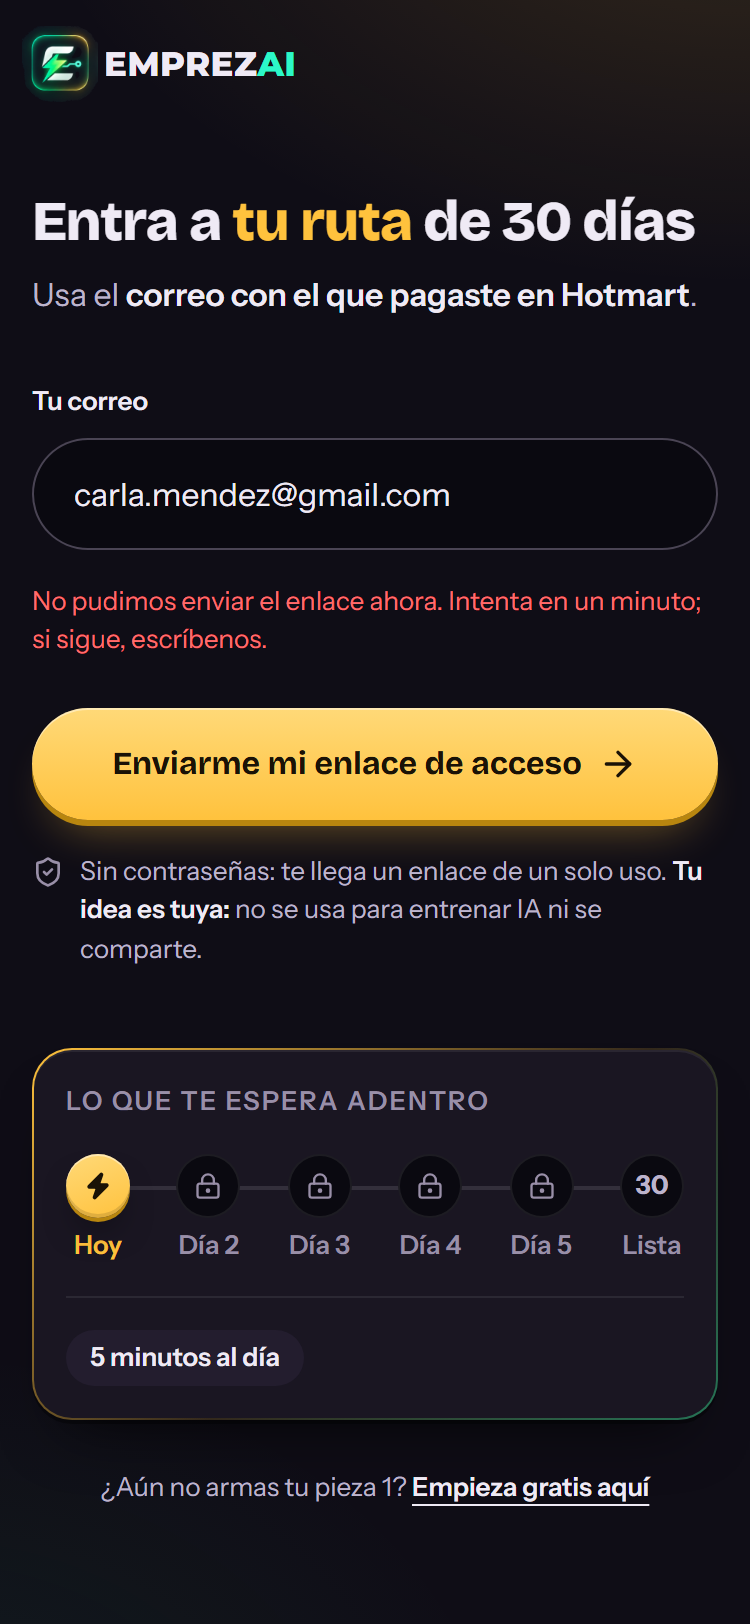
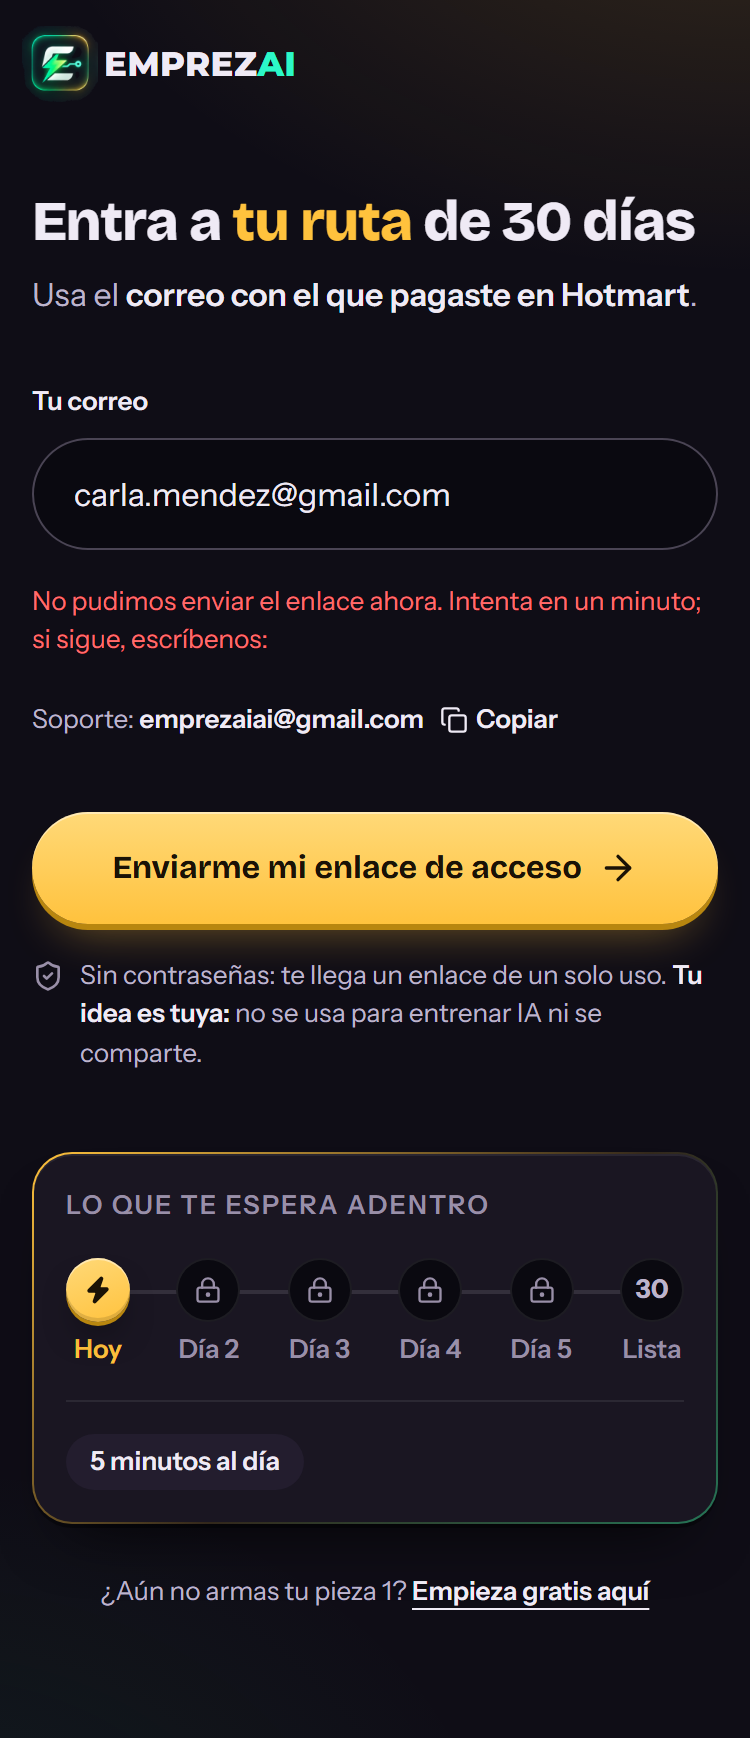
fix(venta): entrar ronda 5 — soporte en el error, freno de sugerencia fiable, terminaciones .con, copiar con respaldo

diff --git a/components/acceso/Acceso.tsx b/components/acceso/Acceso.tsx
@@ -33,6 +33,7 @@ const CORREO_VALIDO = /^[^\s@]+@[^\s@]+\.[^\s@]{2,}$/;
 // primer punto) y se conserva su terminación (.com, .es, .cl…); los dominios reales parecidos
 // (ymail, mail, email, hotmail.cl…) nunca se "corrigen".
 const NOMBRES_COMUNES = ['gmail', 'hotmail', 'outlook', 'yahoo', 'icloud', 'live'];
+const TERMINACIONES_MAL_ESCRITAS = new Set(['.con', '.cpm', '.cm', '.om', '.comm', '.vom', '.xom', '.cim']);
 const NOMBRES_REALES = new Set(['gmail', 'hotmail', 'outlook', 'yahoo', 'icloud', 'live', 'ymail', 'mail', 'email', 'aol', 'msn', 'proton', 'protonmail', 'gmx', 'zoho', 'me', 'mac']);
 
 /** Distancia de edición contando como 1 el cambio de dos letras vecinas ("gmial" → "gmail"). */
@@ -54,10 +55,12 @@ function sugerirCorreo(correo: string): string | undefined {
   if (!usuario || !dominio || !CORREO_VALIDO.test(correo.trim())) return undefined;
   const punto = dominio.indexOf('.');
   const nombre = dominio.slice(0, punto);
-  const terminacion = dominio.slice(punto);
+  const escrita = dominio.slice(punto);
+  // ".co" es real (Colombia): no se toca.
+  const terminacion = TERMINACIONES_MAL_ESCRITAS.has(escrita) ? '.com' : escrita;
   // Gmail solo existe como gmail.com.
   if (nombre === 'gmail') return dominio === 'gmail.com' ? undefined : `${usuario}@gmail.com`;
-  if (NOMBRES_REALES.has(nombre)) return undefined;
+  if (NOMBRES_REALES.has(nombre)) return terminacion === escrita ? undefined : `${usuario}@${nombre}${terminacion}`;
   const cercano = NOMBRES_COMUNES.find((c) => distancia(nombre, c) <= (c.length <= 5 ? 1 : 2));
   if (!cercano) return undefined;
   return `${usuario}@${cercano}${cercano === 'gmail' ? '.com' : terminacion}`;
@@ -65,28 +68,42 @@ function sugerirCorreo(correo: string): string | undefined {
 
 /** El soporte, igual en todos los estados: visible, seleccionable y con un botón que lo copia. */
 function SoporteLinea({ className = '' }: { className?: string }) {
-  const [copiado, setCopiado] = useState(false);
+  const [copiado, setCopiado] = useState<'no' | 'si' | 'manual'>('no');
+  const direccion = useRef<HTMLSpanElement>(null);
   async function copiar() {
     try {
       await navigator.clipboard.writeText(RESPONSABLE.emailContacto);
-      setCopiado(true);
-      window.setTimeout(() => setCopiado(false), 2000);
+      setCopiado('si');
+      window.setTimeout(() => setCopiado('no'), 2000);
     } catch {
-      // Sin permiso de portapapeles: la dirección sigue visible y seleccionable.
+      // Sin portapapeles (p. ej. el navegador dentro de Instagram o Facebook): se deja la dirección
+      // seleccionada y se explica cómo copiarla a mano.
+      const nodo = direccion.current;
+      const seleccion = window.getSelection();
+      if (nodo && seleccion) {
+        const rango = document.createRange();
+        rango.selectNodeContents(nodo);
+        seleccion.removeAllRanges();
+        seleccion.addRange(rango);
+      }
+      setCopiado('manual');
     }
   }
   return (
     <p className={`flex flex-wrap items-center gap-x-2 text-caption text-ink-2 ${className}`}>
       <span>
-        Soporte: <span className="font-semibold [overflow-wrap:anywhere] text-ink-1 select-all">{RESPONSABLE.emailContacto}</span>
+        Soporte:{' '}
+        <span ref={direccion} className="font-semibold [overflow-wrap:anywhere] text-ink-1 select-all">
+          {RESPONSABLE.emailContacto}
+        </span>
       </span>
       <button
         type="button"
         onClick={copiar}
         className="inline-flex min-h-11 items-center gap-1 font-semibold text-ink-1 underline-offset-4 hover:underline"
       >
-        {copiado ? <Check size={14} aria-hidden="true" /> : <Copy size={14} aria-hidden="true" />}
-        <span aria-live="polite">{copiado ? 'Copiado' : 'Copiar'}</span>
+        {copiado === 'si' ? <Check size={14} aria-hidden="true" /> : <Copy size={14} aria-hidden="true" />}
+        <span aria-live="polite">{copiado === 'si' ? 'Copiado' : copiado === 'manual' ? 'Mantén presionado para copiar' : 'Copiar'}</span>
       </button>
     </p>
   );
@@ -143,6 +160,8 @@ export function Acceso() {
   const avisoUrl = useSyncExternalStore(suscribirNada, leerAvisoUrl, () => '');
   // Se calcula al salir del campo o al enviar (no mientras escribe "gmail.co" antes de la "m").
   const [sugerencia, setSugerencia] = useState<string | undefined>(undefined);
+  // La que ya se mostró al enviar: el segundo toque envía igual (nunca bloquea para siempre).
+  const sugerenciaAvisada = useRef<string | undefined>(undefined);
 
   // Versión de prueba local: con cuenta en el celular, directo a su ruta. (Con acceso real, la
   // sesión la decide el servidor: una copia local no es una sesión.)
@@ -176,7 +195,8 @@ export function Acceso() {
     // Primer toque con un dominio dudoso: se muestra la sugerencia y no se envía; un segundo toque
     // (o corregirlo) envía. Nunca bloquea para siempre.
     const sugerido = sugerirCorreo(limpio);
-    if (sugerido && sugerencia !== sugerido) {
+    if (sugerido && sugerenciaAvisada.current !== sugerido) {
+      sugerenciaAvisada.current = sugerido;
       setSugerencia(sugerido);
       return;
     }
@@ -622,13 +642,14 @@ export function Acceso() {
                   <p role="alert" className="text-caption text-danger">
                     {falla === 'servidor' ? (
                       <>
-                        No pudimos enviar el enlace ahora. Intenta en un minuto; si sigue, escríbenos.
+                        No pudimos enviar el enlace ahora. Intenta en un minuto; si sigue, escríbenos:
                       </>
                     ) : (
                       'No pudimos enviar el enlace. Revisa tu conexión e intenta de nuevo.'
                     )}
                   </p>
                 )}
+                {estado === 'error' && falla === 'servidor' && <SoporteLinea />}
                 <button
                   type="submit"
                   disabled={estado === 'enviando'}

diff --git a/docs/revisiones/entrar-veredicto.md b/docs/revisiones/entrar-veredicto.md
@@ -1,73 +1,77 @@
 # VEREDICTO revisor-visual — entrar (login)
-Fecha: 2026-11-06 19:00
+Fecha: 2026-11-06 22:00
 Screenshot: docs/revisiones/entrar-375.png
-Usabilidad: 35/40
+Usabilidad: 34/40
 Craft: 16/20
 Copy (si vende): N-A
 Fidelidad (si hubo referencia): N-A
 Veredicto: NO LISTA
-Top defectos: (1) el soporte, única salida para quien pagó y no entra, ahora se ve en 02, 03, 04 y en el estado pronto, y es emprezaiai@gmail.com, un Gmail con "aiai" que parece error de tipeo (legal.ts:7). Se corrige al comprar el dominio · (2) la sugerencia de dominio da falsos positivos con dominios reales: hotmail.cl, live.cl, outlook.cl (Chile), mail.com, ymail.com y email.com quedan a distancia ≤2 de uno de la lista y reciben un "¿Quisiste decir…@hotmail.com/gmail.com?" equivocado. Además parpadea al escribir: con "gmail.co" ya sugiere, antes de la "m" (Acceso.tsx:33, 50-55, 111) · (3) el soporte se presenta de 4 formas distintas ("o copia el correo:", "Soporte:", "escríbenos a", "o escríbenos a"), y "copia" promete una acción que no existe, porque solo hay texto con select-all (L302, 410, 515, 583) · (4) en 03, el párrafo ocupa 4 líneas con "hacer." huérfana y mezcla registro: "Le escribimos" y "te llegan" (L340-343) · (5) la sugerencia aparece de golpe, sin animación, y su aria-live se monta junto con el contenido, así que un lector de pantalla puede no anunciarla (L556-571)
+Top defectos: (1) REGRESIÓN en 04, error de servidor: dice "si sigue, escríbenos." sin enlace ni dirección; SoporteLinea no se pinta en el estado error (Acceso.tsx:621-631) · (2) carrera blur→submit: si se toca el CTA directo desde el campo con "gmial.com", el onBlur fija la sugerencia, el submit la encuentra igual a la sugerida y ENVÍA al primer toque al dominio mal escrito (L176-182 + L579) · (3) las terminaciones mal escritas ya no se detectan fuera de gmail: hotmail.con, outlook.con, yahoo.con, hotmail.cm y live.comm salen por NOMBRES_REALES sin sugerencia (L60). ".con" es el tipeo más frecuente en teclado español, y la ronda 3 sí lo atrapaba · (4) el soporte sigue siendo el Gmail provisional emprezaiai@gmail.com (legal.ts:7); depende de comprar el dominio · (5) "Copiar" falla en silencio si no hay permiso de portapapeles: el catch vacío no avisa nada (L74-76), y justo ese caso se da en el navegador interno de Instagram/Facebook, por donde entra el tráfico de anuncios
 
-Detalle usabilidad: h1:4 h2:3 h3:4 h4:3 h5:3 h6:4 h7:3 h8:4 h9:4 h10:3
+Detalle usabilidad: h1:4 h2:3 h3:4 h4:3 h5:3 h6:4 h7:3 h8:4 h9:3 h10:3
 Detalle craft: jerarquía:4 profundidad:3 identidad:3 movimiento:3 encaje:3
 Copy: N-A. Es una pantalla de acceso para quien ya pagó; no vende.
-Fidelidad: N-A (no hay referencia para esta pantalla). Contra FICHA-ARTE: fondo #0F0D16 con radial dorado. El dorado solo aparece en el CTA, en "tu ruta" y en el nodo "Hoy"; la hairline dorada→verde está en la tarjeta de la ruta y el aviso usa #FF9F43. Bricolage en display, Instrument Sans en body y Montserrat solo en el logo. Escala de 3 niveles (28/16/13), píldoras de 999px y radius-card. Todo coincide.
+Fidelidad: N-A (no hay referencia para esta pantalla). Contra FICHA-ARTE: fondo #0F0D16 con radial dorado. El dorado solo aparece en el CTA, en "tu ruta" y en el nodo "Hoy"; la hairline dorada→verde está en la tarjeta de la ruta y el aviso usa #FF9F43. Bricolage en display, Instrument Sans en body y Montserrat solo en el logo. Escala 28/16/13, píldoras de 999px y radius-card. Todo coincide.
 
-## Re-revisión 2026-11-06 (3ª ronda, commit 3bf02c2)
+## Re-revisión 2026-11-06 (4ª ronda, commit 355414a)
 
-Insumos puntuados: entrar-375.png y entrar/01-inicio … 05-sin-conexion, más 06-sugerencia-dominio ("gmial.com"). Código: components/acceso/Acceso.tsx y lib/legal.ts.
+Insumos puntuados: entrar-375.png y entrar/01 … 06 (06 = "gmial.com" con la sugerencia mostrada al salir del campo). Código: components/acceso/Acceso.tsx (sugerirCorreo, distancia con transposiciones, SoporteLinea, contenedor aria-live) y lib/legal.ts.
 
 Gate de carga cognitiva: 0 fallas de 8.
-CTA héroe vivo: cumple los 4, sin cambios respecto de la ronda anterior.
+CTA héroe vivo: cumple los 4, sin cambios.
 
 ### Defectos de la ronda anterior, uno por uno
-1. El soporte dependía solo de mailto: CERRADO en lo que toca a la pantalla. `CorreoSoporte` muestra la dirección con select-all en 02 (L515), 03 (L410) y 04 (L583), y el estado pronto ya la mostraba (L302). Sigue abierto el Gmail provisional, que ahora se ve en más lugares (pasa a ser el top 1, por configuración externa).
-2. No se prevenían errores de tipeo en el dominio: CERRADO A MEDIAS. La sugerencia funciona (06: "¿Quisiste decir carla.mendez@gmail.com?" con un toque para corregir, 44px, y no bloquea el envío). Pero la lista y el umbral generan falsos positivos con dominios reales (top 2).
-3. El párrafo de "enviado" era ambiguo: CERRADO. Ahora dice "Si ese correo tiene una compra activa, te llegan tu enlace y tu código. Si no, te explicamos qué hacer." Queda una mezcla menor de registro y una línea huérfana (top 4).
-4. La voz no coincidía ("escribirles"): CERRADO. Ahora dice "Ya pagué: escríbenos" (L511).
-5. Quedaban restos de text-sm: CERRADO. "Corregir mi correo" (L307) y la tarjeta demo (L416) ya están en text-caption.
+1. Gmail provisional: SIGUE ABIERTO (depende del dominio; ya está anotado como siguiente paso de configuración).
+2. Falsos positivos y parpadeo de la sugerencia: CERRADO en lo que se pidió, con dos huecos nuevos.
+   - Lo que funciona: NOMBRES_REALES protege hotmail.cl, live.cl, outlook.cl, ymail, mail y email; se compara solo el nombre y la distancia cuenta las transposiciones; la sugerencia ya no aparece mientras se escribe.
+   - Huecos nuevos: ".con" ya no se atrapa fuera de gmail (top 3) y la sugerencia por onBlur anula el freno del primer toque (top 2).
+3. Formato de soporte inconsistente y "copia" sin acción: CERRADO A MEDIAS. SoporteLinea es idéntica en 02, 03 y pronto, con un botón Copiar de 44px. Pero el estado error (04) PERDIÓ el soporte que tenía en la ronda 3 (top 1), y Copiar no tiene alternativa si falla el portapapeles (top 5).
+4. Párrafo de 03: CERRADO. "Escribimos a … Si tiene una compra activa, te llegan tu enlace y tu código; si no, te explicamos qué hacer." Queda en 3 líneas, sin palabra huérfana y sin mezcla de registro.
+5. Sugerencia sin movimiento y sin anuncio fiable: CERRADO. El contenedor `aria-live` queda siempre montado (L594) y la sugerencia entra con AnimatePresence en 150ms, respetando reduced-motion.
 
-### Por qué la usabilidad sube de 34 a 35
-h3 pasa a 4: todas las salidas están a la vista (logo al inicio, "Usar otro correo", "Corregir mi correo", reactivar o escribir) y el soporte ya no depende de que haya una app de correo.
+### Por qué la usabilidad baja de 35 a 34
+- h9 baja de 4 a 3. Es una regresión visible en 04: el mensaje dice "escríbenos" sin decir dónde, justo en el momento en que más se necesita esa salida.
+- h5 sigue en 3. La prevención mejoró en lo que se ve, pero dos caminos comunes la esquivan: tocar el CTA directo desde el campo (top 2) y escribir ".con" con hotmail, outlook o yahoo (top 3).
+- h10 sigue en 3 por el Gmail provisional.
 
-No llega a 36 por dos ejes:
-- h5 se queda en 3. La prevención es buena, pero quien escribe un dominio real como hotmail.cl ve una corrección equivocada, y quien escribe gmail.com ve sugerencias mientras tipea. Con la duda, se elige el ancla menor.
-- h10 se queda en 3. Toda la ayuda desemboca en un Gmail provisional con "aiai".
-
-Para pasar el gate:
-- Corregir la lista de dominios: h5 sube a 4 y el total llega a 36/40.
-- Cambiar al correo del dominio: h10 sube a 4.
+Para llegar a 36:
+- Devolver SoporteLinea al error: h9 vuelve a 4 (35).
+- Corregir la carrera y ".con": h5 sube a 4 (36).
+- Cambiar al correo del dominio: h10 sube a 4 (37).
 
 ### Craft 16/20 (igual)
-- Jerarquía 4: 3 tamaños y 4 niveles nítidos.
-- Encaje 3: el párrafo de 03 deja "hacer." sola en la 4ª línea, el soporte tiene 4 formatos y la sugerencia entra sin animación.
-- Profundidad, identidad y movimiento sin cambios.
+- Jerarquía 4.
+- Encaje 3: la línea de soporte está unificada, pero el estado error queda sin ella y la sugerencia empuja el CTA unos 44px al aparecer.
+- Profundidad, identidad y movimiento sin cambios de ancla.
 
-### Pendiente fuera de la pantalla
-El envío real (Resend + EMAIL_FROM) sigue sin conectar y las capturas 03 y 04 usan un servidor simulado. Cuando se conecte el dominio, repetir 03 con un correo real y verificar que lleguen los dos correos: el de acceso y el de "sin compra".
+### Verificación pendiente
+- Top 2 sale de leer el código y conviene confirmarlo con una prueba. En Playwright: llenar "carla@gmial.com", hacer click directo en "Enviarme mi enlace de acceso" sin Tab ni Enter, y esperar que NO salga POST /api/acceso/enviar y que la sugerencia quede visible.
+- El envío real (Resend + EMAIL_FROM) sigue sin conectar; 03 y 04 usan un servidor simulado.
 
 ## Hallazgos por severidad
 
+### ALTO
+1. **El error de servidor no tiene a quién escribir** (Acceso.tsx:621-631). → FIX: con `falla === 'servidor'`, pintar `<SoporteLinea />` debajo del mensaje y cerrar la frase con "escríbenos aquí:".
+
 ### MEDIO
-1. **El correo de soporte es un Gmail provisional, visible en 4 estados** (legal.ts:7). → FIX: soporte@<dominio> en `RESPONSABLE.emailContacto` en cuanto se compre el dominio. Es un cambio de una línea y propaga a todos los estados.
-2. **Falsos positivos y parpadeo de la sugerencia** (Acceso.tsx:33, 50-55, 111). → FIX:
-   - Agregar una lista de dominios válidos que nunca se corrigen: hotmail.cl, live.cl, outlook.cl, outlook.es, hotmail.com.ar, hotmail.com.mx, yahoo.com.mx, yahoo.com.ar, live.com.mx, mail.com, ymail.com, email.com, me.com, protonmail.com.
-   - Comparar solo la parte antes del primer punto, con distancia ≤1 si tiene 5 letras o menos y ≤2 si tiene más.
-   - Calcular la sugerencia al salir del campo (onBlur) o al tocar el CTA, no en cada tecla.
+2. **La sugerencia por onBlur anula el freno del primer toque** (L176-182, L579). → FIX: guardar en un `useRef` la sugerencia ya avisada dentro de `enviar`. Solo se deja pasar si `avisada.current === sugerido`; el onBlur no marca nada como avisado. Agregar la prueba de Playwright descrita arriba.
+3. **Las terminaciones mal escritas no se corrigen en hotmail, outlook, yahoo, icloud ni live** (L60). → FIX: antes del `return` por NOMBRES_REALES, normalizar la terminación con un mapa {.con, .cpm, .cm, .om, .comm, .vom, .xom → .com} y sugerir si cambió. No tocar ".co" (Colombia) fuera de gmail.
+4. **El soporte es un Gmail provisional** (legal.ts:7). → FIX: soporte@<dominio> al comprar el dominio (una línea).
 
 ### BAJO
-3. **Formato de soporte inconsistente y un "copia" sin acción** (L302, 410, 515, 583). → FIX: un solo componente "Soporte: emprezaiai@… [Copiar]" con navigator.clipboard y "Copiado" durante 2 s, idéntico en los 4 estados.
-4. **Párrafo de 4 líneas con mezcla de registro** (L340-343). → FIX: "Escribimos a {email}. Si tiene una compra activa, te llegan tu enlace y tu código; si no, te explicamos qué hacer." (o `text-balance`).
-5. **La sugerencia aparece sin movimiento y el anuncio no es confiable** (L556-571). → FIX: dejar montado un contenedor `aria-live="polite"` fijo y animar la sugerencia dentro con fade + y 4px en 150ms (con reduced-motion respetado).
+5. **Copiar falla en silencio** (L74-76). → FIX: en el catch, seleccionar el `<span>` del correo con Selection/Range y mostrar "Mantén presionado para copiar" durante 3 s.
+
+## Historial — re-revisión 2026-11-06 (3ª ronda, commit 3bf02c2): NO LISTA 35·16·N-A
+Top defectos de entonces: (1) el Gmail provisional visible en 4 estados · (2) falsos positivos de la sugerencia (hotmail.cl, mail.com, ymail.com…) y el parpadeo al escribir · (3) soporte con 4 formatos y un "copia" sin acción · (4) párrafo de 03 de 4 líneas con mezcla de registro · (5) la sugerencia sin movimiento y con un aria-live que no anunciaba de forma fiable. Detalle usabilidad: h1:4 h2:3 h3:4 h4:3 h5:3 h6:4 h7:3 h8:4 h9:4 h10:3. Detalle craft: jerarquía:4 profundidad:3 identidad:3 movimiento:3 encaje:3. Estado en esta ronda: 4 y 5 cerrados; 2 cerrado con dos huecos nuevos; 3 a medias (regresión en 04); 1 abierto (depende del dominio).
 
 ## Historial — re-revisión 2026-11-06 (2ª ronda, commit 19e6c5b): NO LISTA 34·16·N-A
-Top defectos de entonces: (1) el soporte solo por mailto, sin la dirección a la vista · (2) sin prevención de errores de tipeo en el dominio · (3) párrafo ambiguo en "enviado" · (4) "escribirles" en lugar de "escríbenos" · (5) restos de text-sm. Detalle usabilidad: h1:4 h2:3 h3:3 h4:3 h5:3 h6:4 h7:3 h8:4 h9:4 h10:3. Detalle craft: jerarquía:4 profundidad:3 identidad:3 movimiento:3 encaje:3. Estado en esta ronda: 1, 3, 4 y 5 cerrados; 2 a medias.
+Top defectos de entonces: (1) el soporte solo por mailto, sin la dirección a la vista · (2) sin prevención de errores de tipeo en el dominio · (3) párrafo ambiguo en "enviado" · (4) "escribirles" en lugar de "escríbenos" · (5) restos de text-sm. Detalle usabilidad: h1:4 h2:3 h3:3 h4:3 h5:3 h6:4 h7:3 h8:4 h9:4 h10:3. Detalle craft: 4·3·3·3·3. En la 3ª ronda se cerraron 1, 3, 4 y 5; 2 quedó a medias.
 
 ## Historial — re-revisión 2026-11-06 (1ª ronda): NO LISTA 32·15·N-A
-Top defectos de entonces: (1) 5 tamaños de texto (RutaMini en text-xs) · (2) el correo de soporte en texto rojo que no se podía tocar · (3) el error no se borraba al corregir el correo · (4) "Reactivar mi plan" era solo un texto subrayado · (5) el borde del input casi invisible y la frase que repetía "5 minutos". Detalle usabilidad: h1:4 h2:3 h3:3 h4:3 h5:3 h6:4 h7:3 h8:3 h9:3 h10:3. Detalle craft: 3·3·3·3·3. En la 2ª ronda se cerraron 1, 3, 4 y 5; 2 quedó a medias.
+Top defectos de entonces: (1) 5 tamaños de texto · (2) el correo de soporte en texto rojo que no se podía tocar · (3) el error no se borraba al corregir el correo · (4) "Reactivar mi plan" era solo un texto · (5) el borde del input casi invisible y la frase que repetía "5 minutos". Detalle usabilidad: h1:4 h2:3 h3:3 h4:3 h5:3 h6:4 h7:3 h8:3 h9:3 h10:3. Detalle craft: 3·3·3·3·3. En la 2ª ronda se cerraron 1, 3, 4 y 5; 2 quedó a medias.
 
 ## Historial — revisión de auditoría 2026-10-23: NO LISTA 29·15·N-A
-Top defectos de entonces: (1) confirmación falsa cuando no había compra vigente · (2) aviso "sin-acceso" sin salida · (3) un 500 o un 400 mostraban "Revisa tu conexión" · (4) soporte en emprezaiai@gmail.com · (5) 6 tamaños de texto, aviso con rounded-chip, viñetas "·" escritas a mano y ~85px vacíos. Detalle usabilidad: h1:3 h2:3 h3:3 h4:3 h5:3 h6:3 h7:3 h8:3 h9:3 h10:2. Detalle craft: 3·3·3·3·3. En la 1ª ronda del 2026-11-06 se cerraron 1, 2 y 3; 5 quedó a medias.
+Top defectos de entonces: (1) confirmación falsa cuando no había compra vigente · (2) aviso "sin-acceso" sin salida · (3) un 500 o un 400 mostraban "Revisa tu conexión" · (4) soporte en emprezaiai@gmail.com · (5) 6 tamaños de texto, aviso con rounded-chip, viñetas escritas a mano y ~85px vacíos. Detalle usabilidad: h1:3 h2:3 h3:3 h4:3 h5:3 h6:3 h7:3 h8:3 h9:3 h10:2. Detalle craft: 3·3·3·3·3. En la 1ª ronda del 2026-11-06 se cerraron 1, 2 y 3; 5 quedó a medias.
 
 ## Historial — ronda 5 (2026-10-07): NO LISTA 31·15·15
 Top defectos de entonces: espera sin aviso ni garantía en "pronto" · al volver no reconocía el correo guardado · soporte en Hotmail personal · 6 tamaños de texto · ~95px vacíos y candados con dos sentidos. Se resolvieron el 2026-10-23: reconocimiento al volver, el ícono de privacidad y el Hotmail personal (a medias).
